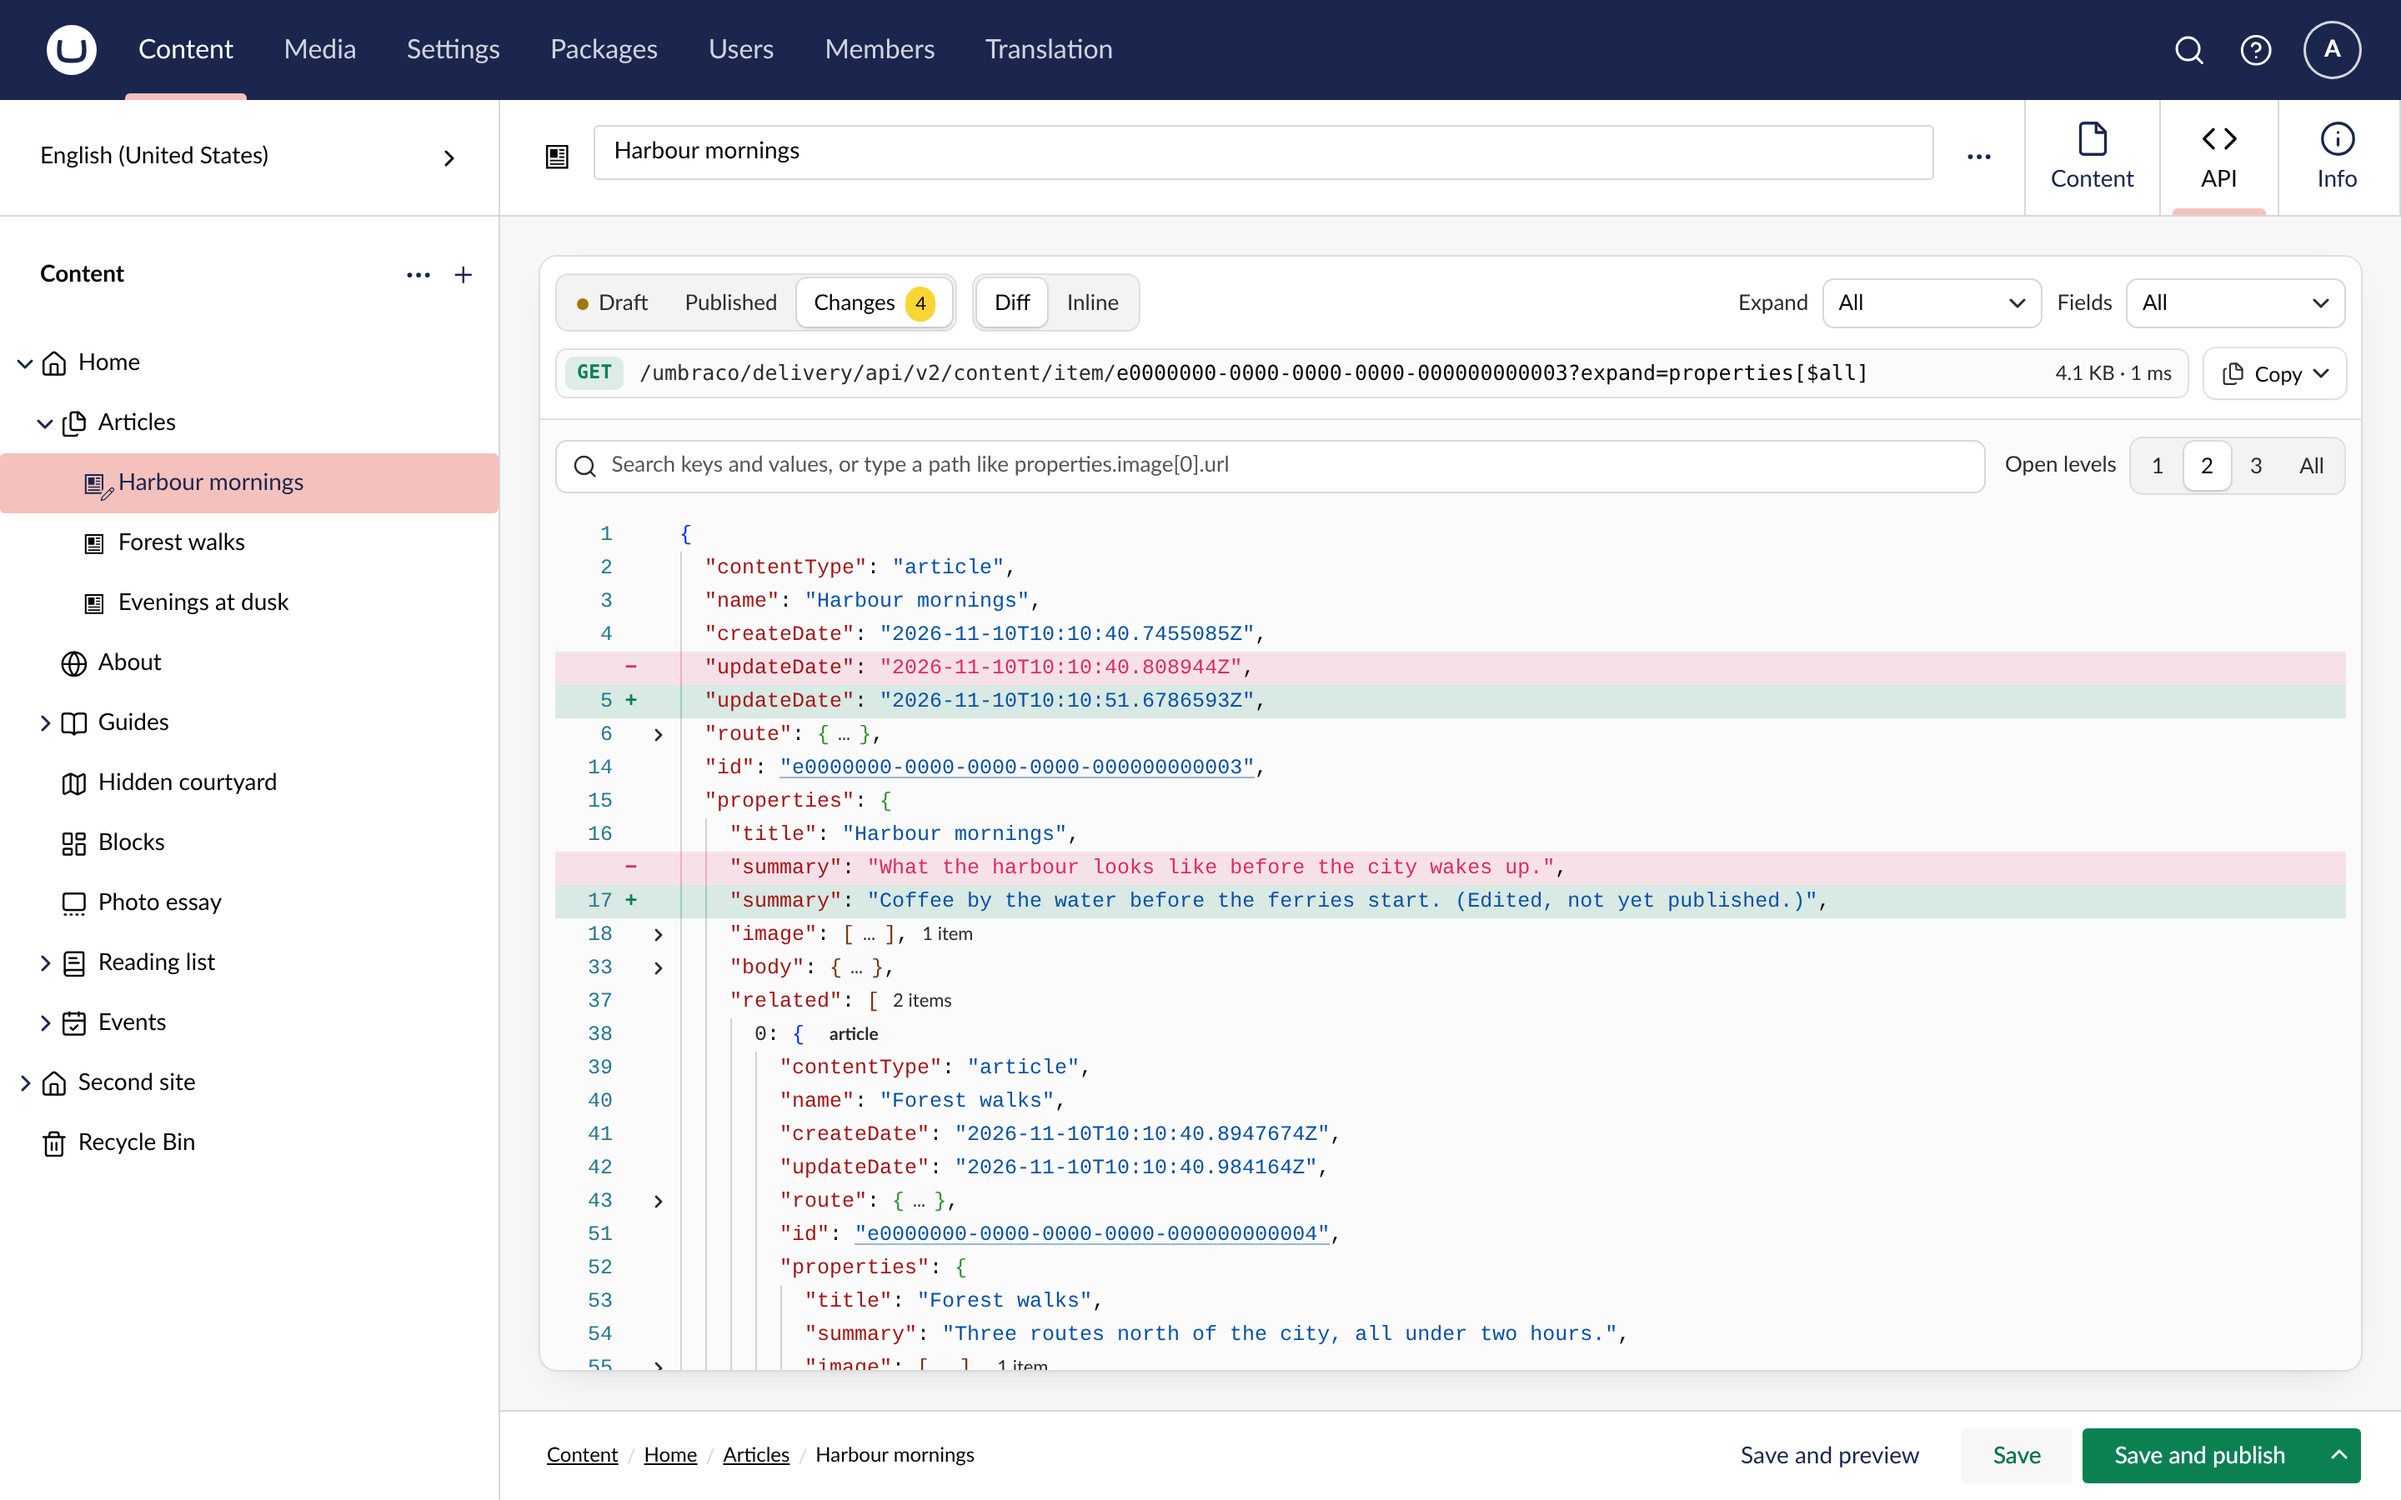
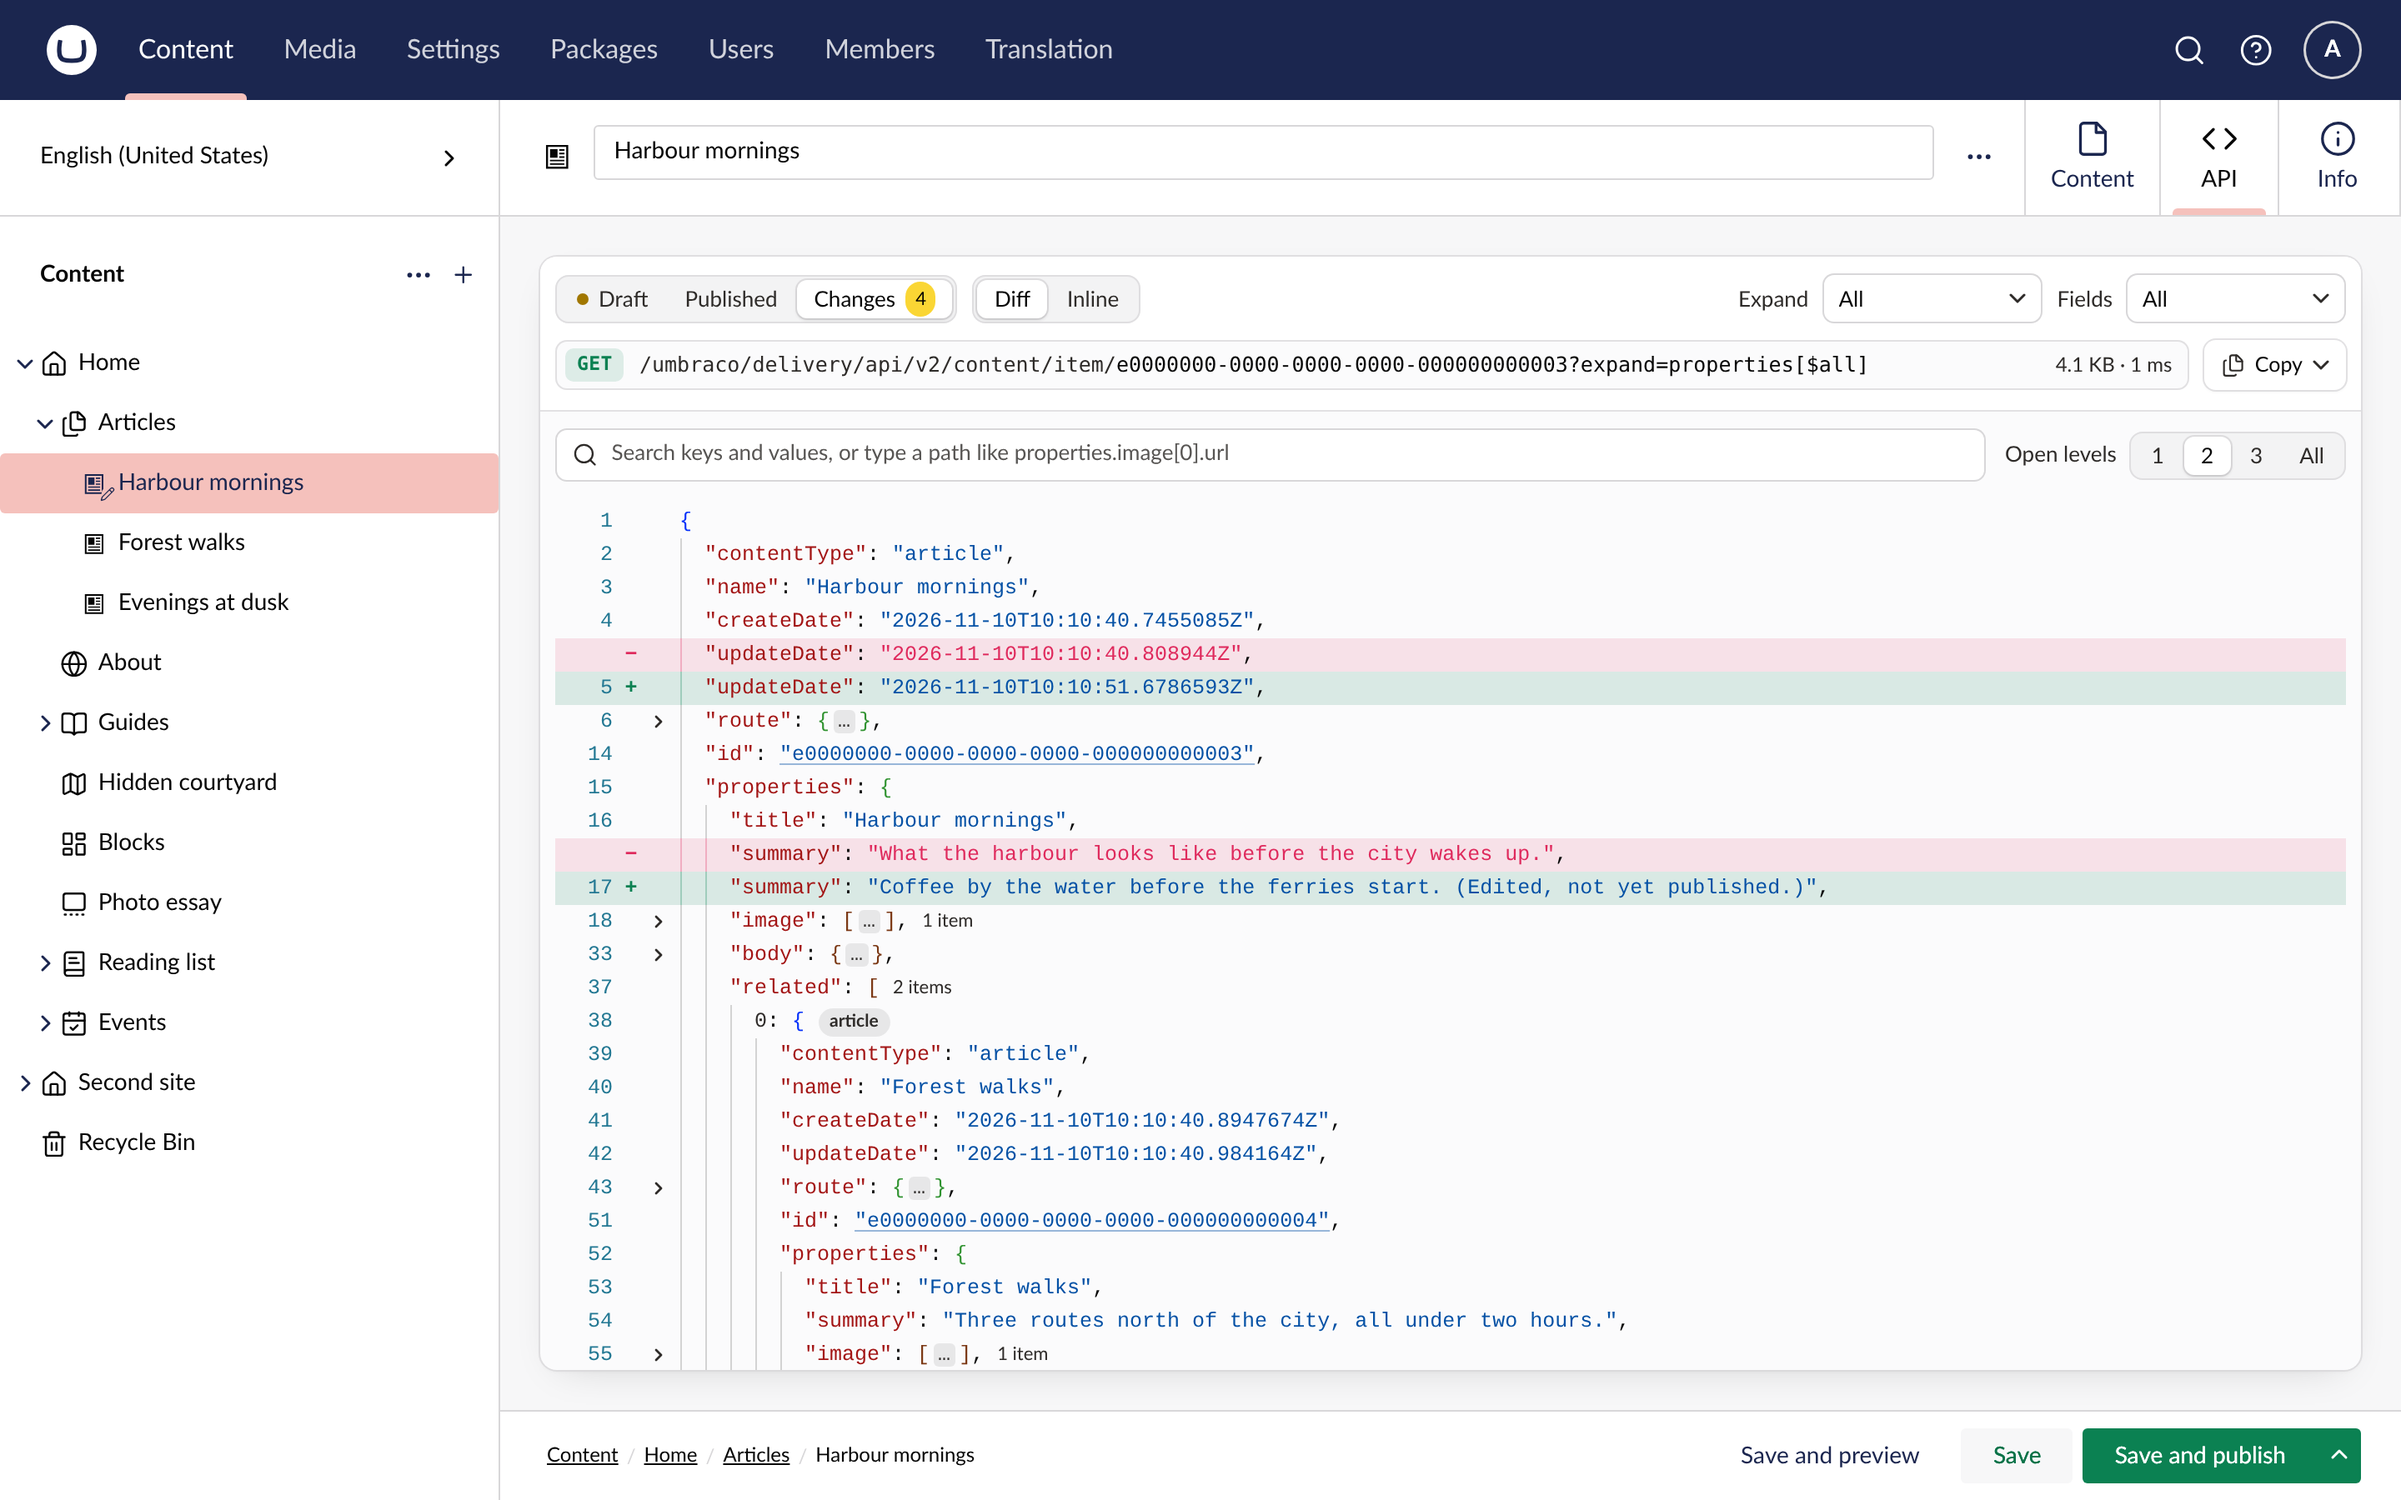
Centre control text by its capitals with text-box trim
Replaces the per-control pixel nudges, which were measured on one platform
and came out a pixel off on macOS, with text-box: trim-both cap alphabetic,
so the label, icon and chevron share one centre line in any font.

Changed region(s): [[0.2188, 0.1867, 1.0, 0.9333]]

diff --git a/src/TheBuilder.DeliveryApiInspector/Client/src/inspector-view.element.ts b/src/TheBuilder.DeliveryApiInspector/Client/src/inspector-view.element.ts
@@ -257,7 +257,7 @@ export class InspectorViewElement extends UmbElementMixin(LitElement) {
     return html`<div class="segmented" role="group" aria-label=${label}>
       <span class="label" aria-hidden="true">${label}</span>
       <span class="track">${options.map(([option, text, title]) => html`<button type="button" aria-pressed=${String(option === value)} title=${title ?? text}
-        ?disabled=${disabled(option)} @click=${() => set(option)}>${text}</button>`)}</span>
+        ?disabled=${disabled(option)} @click=${() => set(option)}><span class="t">${text}</span></button>`)}</span>
     </div>`;
   }
 
@@ -298,7 +298,7 @@ export class InspectorViewElement extends UmbElementMixin(LitElement) {
   /** One choice in a menu: a tick for a single choice, a checkbox for one of several. */
   #item(text: unknown, checked: boolean, kind: "choice" | "check", pick: () => void) {
     return html`<button type="button" class="item" role=${kind === "check" ? "menuitemcheckbox" : "menuitemradio"} aria-checked=${String(checked)} data-kind=${kind} @click=${pick}>
-      <span class="mark" aria-hidden="true">${checked ? html`<svg viewBox="0 0 12 10"><path d="M1.5 5.2l3 3L10.5 1.8" /></svg>` : nothing}</span>${text}
+      <span class="mark" aria-hidden="true">${checked ? html`<svg viewBox="0 0 12 10"><path d="M1.5 5.2l3 3L10.5 1.8" /></svg>` : nothing}</span><span class="t">${text}</span>
     </button>`;
   }
 
@@ -307,7 +307,7 @@ export class InspectorViewElement extends UmbElementMixin(LitElement) {
     return html`<span class="select">
       <span class="label" id=${`${id}-label`}>${label}</span>
       <button type="button" class="box" popovertarget=${id} aria-haspopup="menu" aria-labelledby=${`${id}-label ${id}-value`}>
-        <span class="value" id=${`${id}-value`}>${summary}</span>
+        <span class="value t" id=${`${id}-value`}>${summary}</span>
         <svg class="chevron" viewBox="0 0 10 6" aria-hidden="true"><path d="M1 1l4 4 4-4" /></svg>
       </button>
     </span>`;
@@ -345,13 +345,13 @@ export class InspectorViewElement extends UmbElementMixin(LitElement) {
     const copy = (text: string, message: string) => { this.#closeMenu("copy-menu"); void this.#copy(text, message); };
     const origin = backofficeOrigin();
     return html`<button type="button" class="copy-button" popovertarget="copy-menu" aria-haspopup="menu">
-        <uui-icon name="icon-documents"></uui-icon>Copy<svg class="chevron" viewBox="0 0 10 6" aria-hidden="true"><path d="M1 1l4 4 4-4" /></svg>
+        <uui-icon name="icon-documents"></uui-icon><span class="t">Copy</span><svg class="chevron" viewBox="0 0 10 6" aria-hidden="true"><path d="M1 1l4 4 4-4" /></svg>
       </button>
       ${this.#menu("copy-menu", "end", html`
-        <button type="button" class="item" role="menuitem" @click=${() => copy(origin + fullUrl(request), "Copied the URL.")}>Copy URL</button>
-        <button type="button" class="item" role="menuitem" @click=${() => copy(toCurl(origin, request), "Copied the curl command.")}>Copy as curl</button>
-        <button type="button" class="item" role="menuitem" @click=${() => copy(toFetch(origin, request), "Copied the fetch call.")}>Copy as fetch</button>
-        ${this._response ? html`<hr /><button type="button" class="item" role="menuitem" @click=${() => copy(JSON.stringify(this._response?.data, null, 2), "Copied the response.")}>Copy response</button>` : nothing}`)}`;
+        <button type="button" class="item" role="menuitem" @click=${() => copy(origin + fullUrl(request), "Copied the URL.")}><span class="t">Copy URL</span></button>
+        <button type="button" class="item" role="menuitem" @click=${() => copy(toCurl(origin, request), "Copied the curl command.")}><span class="t">Copy as curl</span></button>
+        <button type="button" class="item" role="menuitem" @click=${() => copy(toFetch(origin, request), "Copied the fetch call.")}><span class="t">Copy as fetch</span></button>
+        ${this._response ? html`<hr /><button type="button" class="item" role="menuitem" @click=${() => copy(JSON.stringify(this._response?.data, null, 2), "Copied the response.")}><span class="t">Copy response</span></button>` : nothing}`)}`;
   }
 
   render() {
@@ -378,11 +378,11 @@ export class InspectorViewElement extends UmbElementMixin(LitElement) {
             ? html`<div class="segmented" role="group" aria-label="Version"><span class="track">
                 <button type="button" aria-pressed=${String(this._mode === "draft")} @click=${() => (this._mode = "draft")}
                   title=${draftDiffers ? "The draft has changes that are not published" : "The latest saved version, as Preview: true returns it"}>
-                  ${draftDiffers ? html`<span class="dot" aria-hidden="true"></span>` : nothing}Draft</button>
+                  ${draftDiffers ? html`<span class="dot" aria-hidden="true"></span>` : nothing}<span class="t">Draft</span></button>
                 <button type="button" aria-pressed=${String(this._mode === "published")} ?disabled=${!this._published}
-                  title=${this._published ? "What frontends get today" : "Not published yet"} @click=${() => (this._mode = "published")}>Published</button>
+                  title=${this._published ? "What frontends get today" : "Not published yet"} @click=${() => (this._mode = "published")}><span class="t">Published</span></button>
                 <button type="button" aria-pressed=${String(this._mode === "changes")} ?disabled=${!this._published}
-                  title="What publishing the draft would change" @click=${() => (this._mode = "changes")}>Changes
+                  title="What publishing the draft would change" @click=${() => (this._mode = "changes")}><span class="t">Changes</span>
                   ${this._mode === "changes" && this._changes ? html`<span class="count">${this._changes.size}</span>` : nothing}</button>
               </span></div>`
             : nothing}
@@ -473,6 +473,12 @@ export class InspectorViewElement extends UmbElementMixin(LitElement) {
         --inspector-track: color-mix(in srgb, var(--uui-color-border) 30%, var(--uui-color-surface));
         --inspector-code: color-mix(in srgb, var(--uui-color-background) 45%, var(--uui-color-surface));
       }
+      /* Text in a control is trimmed to its capitals and baseline, so centring it centres what you
+         see, in any font and on any platform, and it lines up with the icons beside it. */
+      .t {
+        display: block;
+        text-box: trim-both cap alphabetic;
+      }
       .panel {
         display: flex;
         flex-direction: column;
@@ -536,10 +542,7 @@ export class InspectorViewElement extends UmbElementMixin(LitElement) {
         gap: 8px;
         height: 30px;
         box-sizing: border-box;
-        /* Lato's line box carries more room below the baseline than above the capitals, so centred
-           text reads about a pixel high. 2px on top centres the value by eye, and the chevron moves
-           back up to meet it. */
-        padding: 2px 10px 0;
+        padding: 0 10px;
         border-radius: 7px;
         background: var(--uui-color-surface);
         box-shadow: inset 0 0 0 1px var(--uui-color-border);
@@ -568,7 +571,6 @@ export class InspectorViewElement extends UmbElementMixin(LitElement) {
         flex: none;
         width: 10px;
         height: 6px;
-        margin-top: -2px;
         fill: none;
         stroke: var(--uui-color-text-alt);
         stroke-width: 1.5;
@@ -599,7 +601,7 @@ export class InspectorViewElement extends UmbElementMixin(LitElement) {
         gap: 8px;
         width: 100%;
         height: 30px;
-        padding: 2px 12px 0 8px;
+        padding: 0 12px 0 8px;
         border-radius: 5px;
         white-space: nowrap;
         cursor: pointer;
@@ -617,7 +619,6 @@ export class InspectorViewElement extends UmbElementMixin(LitElement) {
         place-items: center;
         width: 14px;
         height: 14px;
-        margin-top: -2px;
         box-sizing: border-box;
       }
       .menu .mark svg {
@@ -749,8 +750,9 @@ export class InspectorViewElement extends UmbElementMixin(LitElement) {
         display: inline-flex;
         gap: 6px;
         align-items: center;
-        /* One extra pixel on top, for the same Lato offset the dropdowns correct. */
-        padding: 5px 10px 3px;
+        height: 23px;
+        box-sizing: border-box;
+        padding: 0 10px;
         border-radius: 6px;
         font-size: 13px;
         color: var(--uui-color-text-alt);
@@ -912,7 +914,7 @@ export class InspectorViewElement extends UmbElementMixin(LitElement) {
         white-space: nowrap;
         height: 30px;
         box-sizing: border-box;
-        padding: 2px 10px 0;
+        padding: 0 10px;
         border-radius: 7px;
         font: 500 12.5px var(--uui-font-family);
         color: var(--uui-color-text);
@@ -922,9 +924,9 @@ export class InspectorViewElement extends UmbElementMixin(LitElement) {
       }
       .copy-button uui-icon {
         font-size: 13px;
-        margin-top: -2px;
         color: var(--uui-color-text-alt);
       }
+
       .copy-button:hover {
         background: var(--inspector-track);
       }
